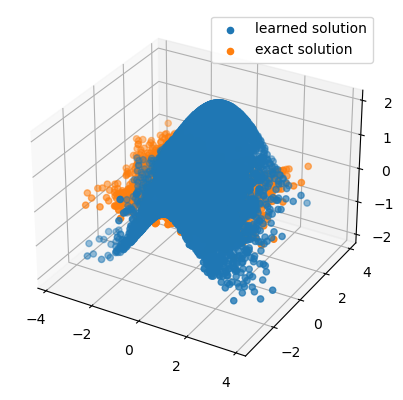
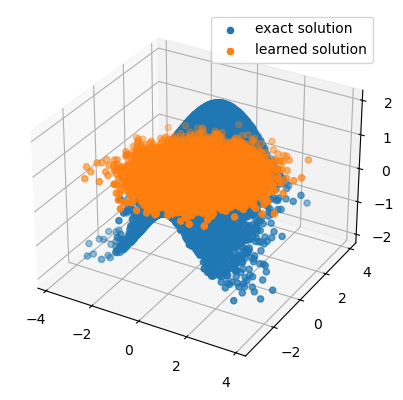
Good parameters

Changed region(s): [[0.1787, 0.3, 0.7742, 0.63], [0.6253, 0.06, 0.9231, 0.15]]

diff --git a/src/numAnalysis/PINN.py b/src/numAnalysis/PINN.py
@@ -16,10 +16,10 @@ class grid:
 class NN:
     def __init__(self, u_ex, n_layers = 3,
                        n_neurons = 4,
-                       activation = tf.nn.tanh,
+                       activation = tf.nn.selu,
                        dim = 2,
                        learning_rate = 1e-3,
-                       opt = tf.keras.optimizers.Adam):
+                       opt = tf.keras.optimizers.Nadam):
 
         '''
         Your code goes here
@@ -107,10 +107,10 @@ class PINN(NN):
 
     def __init__(self, u_ex, n_layers = 3,
                        n_neurons = 4,
-                       activation = tf.nn.tanh,
+                       activation = tf.nn.selu,
                        dim = 2,
                        learning_rate = 1e-3,
-                       opt = tf.keras.optimizers.Adam,
+                       opt = tf.keras.optimizers.Nadam,
                        mu = tf.Variable(1.0),
                        inverse = False):
 

diff --git a/src/main.py b/src/main.py
@@ -71,7 +71,7 @@ f = open("../output/logs.txt", "a") # salveremo tutto l'output in un file .txt
 # Avra' diritto a un premio. Potete modificare anche gli optimizer/funzioni
 # di attivazione della NN se siete coraggiosi!
 
-with open("../input/NN_params.json", "r") as read_file:
+with open("../input/my_NN_params.json", "r") as read_file:
     NN_params = json.load(read_file)
 print("Input file parameters: ", NN_params, "\n\n", file=f)
 
